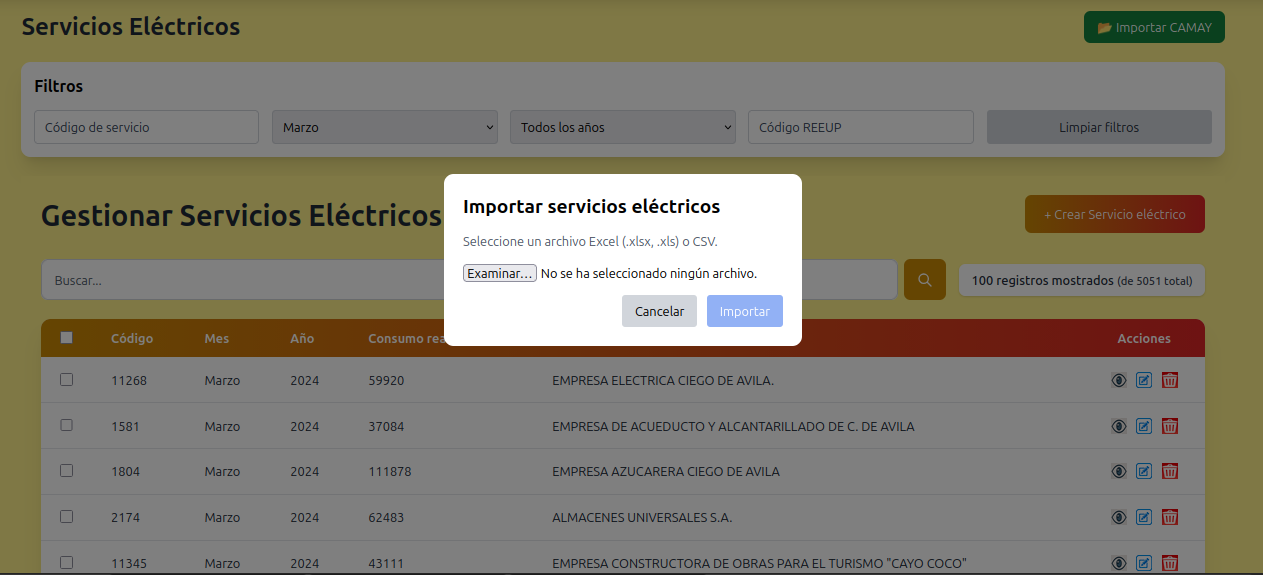
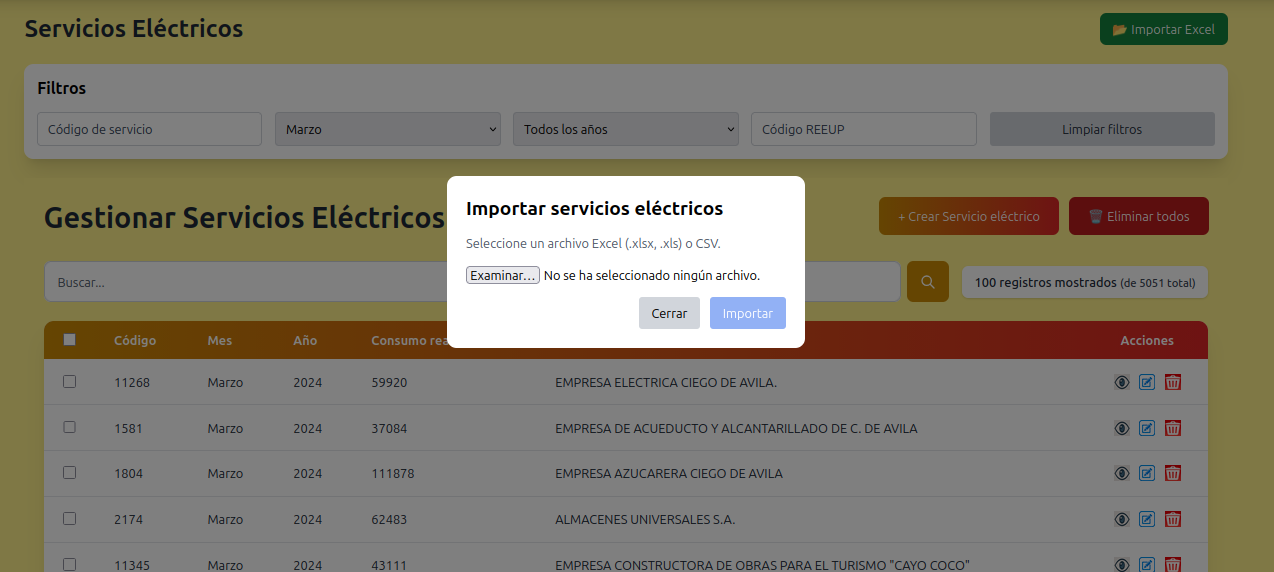
Agregando opción para eliminar todos los registros

diff --git a/frontend/src/components/CrudIndex.jsx b/frontend/src/components/CrudIndex.jsx
@@ -10,54 +10,51 @@ const VerIcon = () => <img src={verImg} alt="ver" className="w-5 h-5" />;
 const EditarIcon = () => <img src={editarImg} alt="editar" className="w-5 h-5" />;
 const EliminarIcon = () => <img src={eliminarImg} alt="eliminar" className="w-5 h-5" />;
 
-export function CrudIndex({ 
+export function CrudIndex({
   title,
   items,
   totalPages,
   currentPage,
   onPageChange,
   onSearch,
-  searchTerm,           
+  searchTerm,
   deleteItem,
-  bulkDeleteItems,        
-  onRefresh,           
+  bulkDeleteItems,
+  onRefresh,
   columns,
   basePath,
   itemName,
+  itemNamePlural,
   totalCount,
   loading,
+  onDeleteAll,
 }) {
   const navigate = useNavigate();
   const [inputValue, setInputValue] = useState(searchTerm || '');
   const [selectedIds, setSelectedIds] = useState(new Set());
 
-  // Sincronizar input con el padre
+  // Plural automático o personalizado
+  const nombrePlural = itemNamePlural || `${itemName}s`;
+
   useEffect(() => {
     setInputValue(searchTerm || '');
   }, [searchTerm]);
 
-  // Limpiar selección cuando cambien los items (página nueva, búsqueda, etc.)
   useEffect(() => {
     setSelectedIds(new Set());
   }, [items]);
 
   const handleSearchClick = () => {
-    if (onSearch) {
-      onSearch(inputValue);
-    }
+    if (onSearch) onSearch(inputValue);
   };
 
   const handleClear = () => {
     setInputValue('');
-    if (onSearch) {
-      onSearch('');
-    }
+    if (onSearch) onSearch('');
   };
 
   const handleKeyDown = (e) => {
-    if (e.key === 'Enter') {
-      handleSearchClick();
-    }
+    if (e.key === 'Enter') handleSearchClick();
   };
 
   const handleDelete = async (id) => {
@@ -65,9 +62,7 @@ export function CrudIndex({
       try {
         await deleteItem(id);
         toast.success(`${itemName} eliminado correctamente`);
-        if (onRefresh) {
-          onRefresh();
-        }
+        if (onRefresh) onRefresh();
       } catch (error) {
         console.error(`Error eliminando ${itemName}:`, error);
         toast.error(`Error al eliminar ${itemName}`);
@@ -75,25 +70,39 @@ export function CrudIndex({
     }
   };
 
-  // Eliminación masiva
   const handleBulkDelete = async () => {
     if (selectedIds.size === 0) return;
-    if (window.confirm(`¿Está seguro de eliminar ${selectedIds.size} ${itemName}(s) seleccionados?`)) {
+    if (window.confirm(`¿Está seguro de eliminar ${selectedIds.size} ${nombrePlural} seleccionados?`)) {
       try {
         if (bulkDeleteItems) {
           await bulkDeleteItems(Array.from(selectedIds));
         } else {
-          // Fallback: eliminar uno por uno en paralelo
           await Promise.all(Array.from(selectedIds).map(id => deleteItem(id)));
         }
-        toast.success(`${selectedIds.size} ${itemName}(s) eliminado(s) correctamente`);
+        toast.success(`${selectedIds.size} ${nombrePlural} eliminados correctamente`);
         setSelectedIds(new Set());
-        if (onRefresh) {
-          onRefresh();
-        }
+        if (onRefresh) onRefresh();
       } catch (error) {
-        console.error(`Error eliminando ${itemName}s:`, error);
-        toast.error(`Error al eliminar los ${itemName}s seleccionados`);
+        console.error(`Error eliminando ${nombrePlural}:`, error);
+        toast.error(`Error al eliminar los ${nombrePlural} seleccionados`);
+      }
+    }
+  };
+
+  const handleDeleteAll = async () => {
+    if (!onDeleteAll) {
+      toast.error('La función para eliminar todos no está disponible');
+      return;
+    }
+    if (window.confirm(`⚠️ ¿Está SEGURO de eliminar TODOS los ${totalCount || '?'} ${nombrePlural}? Esta acción no se puede deshacer.`)) {
+      try {
+        await onDeleteAll();
+        toast.success(`Todos los ${nombrePlural} han sido eliminados`);
+        if (onRefresh) onRefresh();
+        setSelectedIds(new Set());
+      } catch (error) {
+        console.error(`Error eliminando todos los ${nombrePlural}:`, error);
+        toast.error(`Error al eliminar todos los ${nombrePlural}`);
       }
     }
   };
@@ -158,15 +167,26 @@ export function CrudIndex({
         {/* Cabecera */}
         <div className="flex justify-between items-center mb-8">
           <h1 className="text-4xl font-bold text-gray-800">{title}</h1>
-          <button
-            onClick={() => navigate(`${basePath}/crear`)}
-            className="bg-gradient-to-r from-yellow-600 to-red-600 text-white px-6 py-3 rounded-lg hover:from-yellow-700 hover:to-red-700 transition-all transform hover:-translate-y-0.5"
-          >
-            + Crear {itemName}
-          </button>
+          <div className="flex gap-3">
+            <button
+              onClick={() => navigate(`${basePath}/crear`)}
+              className="bg-gradient-to-r from-yellow-600 to-red-600 text-white px-6 py-3 rounded-lg hover:from-yellow-700 hover:to-red-700 transition-all transform hover:-translate-y-0.5"
+            >
+              + Crear {itemName}
+            </button>
+            {onDeleteAll && (
+              <button
+                onClick={handleDeleteAll}
+                className="bg-red-700 text-white px-6 py-3 rounded-lg hover:bg-red-800 transition-all transform hover:-translate-y-0.5"
+                title="Eliminar todos los registros"
+              >
+                🗑️ Eliminar todos
+              </button>
+            )}
+          </div>
         </div>
 
-        {/* Barra de búsqueda y botón de eliminación masiva */}
+        {/* Barra de búsqueda y acciones masivas */}
         <div className="mb-6 flex flex-wrap items-center justify-between gap-4">
           <div className="flex flex-1 min-w-[250px] gap-2">
             <input
@@ -299,13 +319,12 @@ export function CrudIndex({
                   key={index}
                   onClick={() => typeof page === 'number' ? onPageChange(page) : null}
                   disabled={page === '...'}
-                  className={`px-3 py-1 rounded border transition-colors ${
-                    page === currentPage
+                  className={`px-3 py-1 rounded border transition-colors ${page === currentPage
                       ? 'bg-yellow-600 text-white border-yellow-600'
                       : page === '...'
-                      ? 'cursor-default border-transparent'
-                      : 'bg-white hover:bg-gray-100'
-                  }`}
+                        ? 'cursor-default border-transparent'
+                        : 'bg-white hover:bg-gray-100'
+                    }`}
                 >
                   {page}
                 </button>

diff --git a/frontend/src/pages/gestionar/servicio_electrico/index.jsx b/frontend/src/pages/gestionar/servicio_electrico/index.jsx
@@ -2,7 +2,12 @@
 
 import { useState, useEffect } from 'react';
 import { CrudIndex } from '../../../components/CrudIndex';
-import { getAllServicioElectrico, deleteServicioElectrico, importarServicioElectrico } from '../../../api/crud_modelos/servicio_electrico';
+import { 
+  getAllServicioElectrico, 
+  deleteServicioElectrico, 
+  importarServicioElectrico,
+  deleteAllServicioElectrico      
+} from '../../../api/crud_modelos/servicio_electrico';
 import { getAñosDisponibles } from '../../../api/crud_modelos/servicio_electrico';
 import axios from '../../../api/axios'; 
 
@@ -95,6 +100,12 @@ export function ServicioElectricoIndex() {
     fetchData();
   }, [currentPage, filters]);
 
+  const handleDeleteAll = async () => {
+    await deleteAllServicioElectrico();
+    setCurrentPage(1);
+    await fetchData();
+  };
+
   const handleFilterChange = (e) => {
     const { name, value } = e.target;
     setFilters(prev => ({ ...prev, [name]: value }));
@@ -114,7 +125,6 @@ export function ServicioElectricoIndex() {
     });
   };
 
-  // Funciones para importar
   const handleFileChange = (e) => {
     setImportFile(e.target.files[0]);
     setImportResult(null);
@@ -129,7 +139,7 @@ export function ServicioElectricoIndex() {
     try {
       const result = await importarServicioElectrico(importFile);
       setImportResult(result);
-      fetchData(); // Refrescar datos después de importar
+      fetchData();
     } catch (error) {
       console.error('Error importando:', error);
       setImportResult({ error: error.response?.data?.error || 'Error al importar' });
@@ -152,7 +162,6 @@ export function ServicioElectricoIndex() {
         { reeup_faltantes: importResult.reeup_faltantes },
         { responseType: 'blob' }
       );
-      // Crear un enlace temporal para descargar el blob
       const url = window.URL.createObjectURL(new Blob([response.data]));
       const link = document.createElement('a');
       link.href = url;
@@ -170,7 +179,6 @@ export function ServicioElectricoIndex() {
   return (
     <div className="bg-yellow-200 min-h-screen">
       <div className="container mx-auto p-4">
-        {/* Encabezado con botón importar */}
         <div className="flex justify-between items-center mb-6">
           <h1 className="text-3xl font-bold text-gray-800">Servicios Eléctricos</h1>
           <button
@@ -181,7 +189,6 @@ export function ServicioElectricoIndex() {
           </button>
         </div>
 
-        {/* Filtros */}
         <div className="bg-white p-4 rounded-xl shadow-xl mb-6">
           <h2 className="text-xl font-bold mb-4">Filtros</h2>
           <div className="grid grid-cols-1 md:grid-cols-5 gap-4">
@@ -232,7 +239,6 @@ export function ServicioElectricoIndex() {
           </div>
         </div>
 
-        {/* Tabla CrudIndex */}
         <CrudIndex
           title="Gestionar Servicios Eléctricos"
           items={data}
@@ -248,10 +254,11 @@ export function ServicioElectricoIndex() {
           itemName="Servicio eléctrico"
           totalCount={totalCount}
           loading={loading}
+          onDeleteAll={handleDeleteAll}
+          itemNamePlural="Servicios eléctricos"
         />
       </div>
 
-      {/* Modal de importación con loader circular y mensaje */}
       {showImportModal && (
         <div className="fixed inset-0 bg-black bg-opacity-50 flex items-center justify-center z-50">
           <div className="bg-white rounded-xl p-6 max-w-md w-full relative">

diff --git a/frontend/src/api/crud_modelos/servicio_electrico.js b/frontend/src/api/crud_modelos/servicio_electrico.js
@@ -60,6 +60,16 @@ export const deleteServicioElectrico = async (id) => {
   }
 };
 
+export const deleteAllServicioElectrico = async () => {
+  try {
+    const response = await axios.post(`${URL}eliminar-todos/`);
+    return response.data;
+  } catch (error) {
+    console.error('Error al eliminar todos los servicios eléctricos:', error);
+    throw error;
+  }
+};
+
 export const searchServicioElectrico = async (searchTerm) => {
   try {
     const params = new URLSearchParams();

diff --git a/backend/app_gestion/views/servicio_electrico_views.py b/backend/app_gestion/views/servicio_electrico_views.py
@@ -396,3 +396,22 @@ class ServicioElectricoViewSet(viewsets.ModelViewSet):
             elif col_clean == 'KWHT':
                 indices['kwht'] = idx
         return indices
+
+    
+    @action(detail=False, methods=['post'], url_path='eliminar-todos')
+    def eliminar_todos(self, request):
+        """
+        Elimina TODOS los registros de servicios eléctricos.
+        """
+
+        count = Servicio_electrico.objects.count()
+        if count == 0:
+            return Response({'message': 'No hay registros para eliminar', 'deleted': 0}, status=200)
+
+        # Eliminar todos los registros
+        deleted_count, _ = Servicio_electrico.objects.all().delete()
+
+        return Response({
+            'message': f'Se eliminaron {deleted_count} registros correctamente',
+            'deleted': deleted_count
+        }, status=200)